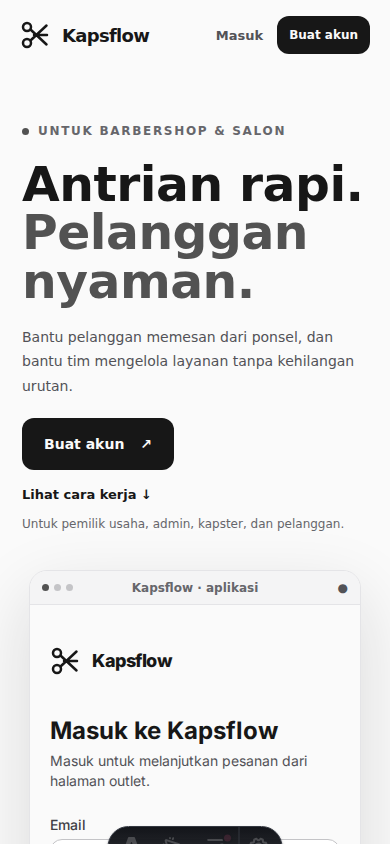
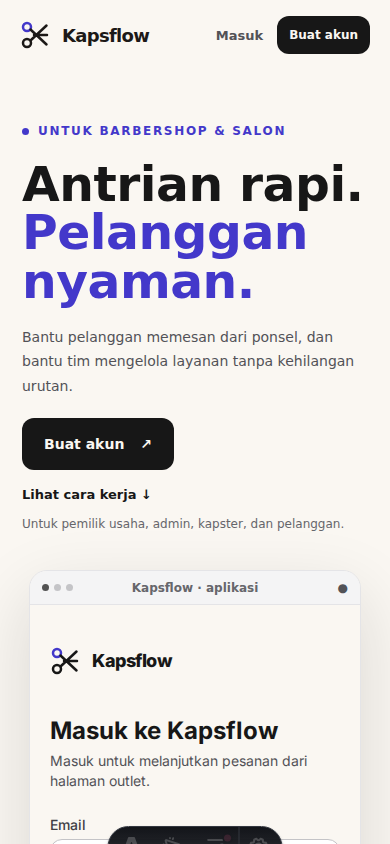
fase UI-6: tambahkan aksen indigo terbatas
Tambahkan token indigo untuk penanda kecil, informasi, dan identitas pada aplikasi serta website.

Pertahankan tombol utama dan warna status, lalu buktikan perubahan dengan Playwright, build, dan lint.

Claude-Session: https://claude.ai/code/session_01HUsY6ZgZyaUUgJZkRwD266

diff --git a/frontend/src/components/ui.tsx b/frontend/src/components/ui.tsx
@@ -152,7 +152,7 @@ export function Alert({ tone = 'error', children }: { tone?: AlertTone; children
   const tones: Record<AlertTone, string> = {
     error: 'border-red-200 bg-red-50 text-red-800',
     success: 'border-emerald-200 bg-emerald-50 text-emerald-900',
-    info: 'border-line bg-paper-raised text-body',
+    info: 'border border-accent/20 bg-accent-soft text-body',
     warning: 'border-amber-300 bg-amber-50 text-amber-900',
   }
   return (
@@ -184,7 +184,7 @@ export function ConnectionStatus({ connected }: { connected: boolean }) {
   )
 }
 
-export type BadgeTone = 'success' | 'warning' | 'danger' | 'neutral'
+export type BadgeTone = 'success' | 'warning' | 'danger' | 'neutral' | 'accent'
 
 export function Badge({ tone = 'neutral', children }: { tone?: BadgeTone; children: ReactNode }) {
   const tones: Record<BadgeTone, string> = {
@@ -192,6 +192,7 @@ export function Badge({ tone = 'neutral', children }: { tone?: BadgeTone; childr
     warning: 'bg-amber-100 text-amber-950',
     danger: 'bg-red-100 text-red-900',
     neutral: 'bg-paper-raised text-body',
+    accent: 'bg-accent-soft text-accent-ink',
   }
   return <span className={`inline-flex min-h-6 items-center rounded-full px-2.5 py-1 text-xs font-semibold ${tones[tone]}`}>{children}</span>
 }
@@ -219,9 +220,9 @@ export function AuthLayout({ title, subtitle, children }: { title: string; subti
           </div>
           <svg aria-hidden="true" viewBox="0 0 132 280" className="h-56 w-28 xl:h-72 xl:w-32">
             <defs><clipPath id="barber-pole"><rect x="30" y="36" width="72" height="208" rx="30" /></clipPath></defs>
-            <rect x="24" y="30" width="84" height="220" rx="36" fill="#fafafa" />
+            <rect x="24" y="30" width="84" height="220" rx="36" fill="var(--color-paper)" />
             <g clipPath="url(#barber-pole)">
-              <rect x="30" y="36" width="72" height="208" fill="#fafafa" />
+              <rect x="30" y="36" width="72" height="208" fill="var(--color-paper)" />
               <path d="M8 206 122 92M8 258 122 144M8 154 122 40M8 102 74 36" stroke="#737373" strokeWidth="20" />
             </g>
             <path d="M24 52h84M24 228h84" stroke="#737373" strokeWidth="12" strokeLinecap="round" />

diff --git a/frontend/src/pages/Admin.tsx b/frontend/src/pages/Admin.tsx
@@ -3,7 +3,7 @@ import { useParams } from 'react-router'
 import { useMutation, useQueries, useQuery, useQueryClient } from '@tanstack/react-query'
 import { api, ApiError, messageOf } from '../api/client'
 import { useMe } from '../auth/useMe'
-import { Alert, Button, ConfirmDialog, Field, RetryAlert, Spinner } from '../components/ui'
+import { Alert, Badge, Button, ConfirmDialog, Field, RetryAlert, Spinner } from '../components/ui'
 import type { components } from '../api/schema'
 import { formatDateTime, formatLongDate, formatRupiah } from '../lib/format'
 
@@ -517,7 +517,7 @@ function PaymentPanel({ membership, session }: { membership: Membership; session
     <section aria-label="DP menunggu konfirmasi" className="space-y-3">
       <div className="flex items-center justify-between">
         <h2 className="text-lg font-bold">DP menunggu konfirmasi</h2>
-        <span className="rounded-full bg-paper-raised px-3 py-1 text-sm font-semibold">{payments.data.length}</span>
+        <Badge tone="accent">{payments.data.length}</Badge>
       </div>
       {confirm.isError && <Alert>{messageOf(confirm.error)}</Alert>}
       {payments.data.length === 0 ? (
@@ -594,7 +594,7 @@ function SettlementPanel({ membership, session }: { membership: Membership; sess
     <section aria-label="Pelunasan menunggu konfirmasi" className="space-y-3 border-t border-line pt-5">
       <div className="flex items-center justify-between gap-3">
         <h2 className="text-lg font-bold">Konfirmasi pelunasan</h2>
-        <span className="rounded-full bg-paper-raised px-3 py-1 text-sm font-semibold">{tickets.data.length}</span>
+        <Badge tone="accent">{tickets.data.length}</Badge>
       </div>
       {confirm.isError && <Alert>{messageOf(confirm.error)}</Alert>}
       {tickets.data.length === 0 ? (

diff --git a/frontend/src/pages/Outlet.tsx b/frontend/src/pages/Outlet.tsx
@@ -66,7 +66,7 @@ function OutletView({ outlet }: { outlet: OutletData }) {
     <main className="mx-auto min-h-dvh max-w-6xl px-5 pb-12 pt-4 sm:px-8 lg:px-10">
       <header className="mb-8 flex items-center justify-between border-b border-line pb-4">
         <Logo />
-        <Link to="/tiket" className="inline-flex min-h-11 items-center px-2 text-sm font-semibold underline focus-visible:outline-2 focus-visible:outline-brand-ink">
+        <Link to="/tiket" className="inline-flex min-h-11 items-center px-2 text-sm font-semibold text-accent-ink underline focus-visible:outline-2 focus-visible:outline-brand-ink">
           Tiket saya
         </Link>
       </header>
@@ -183,7 +183,7 @@ function BookingSection({ outlet }: { outlet: OutletData }) {
                     : 'border-line bg-paper-raised text-muted cursor-not-allowed'
               }`}
               >
-                <span className="block text-xs">{d.date === outlet.local_today ? 'Hari ini' : weekdayShort(d.date)}</span>
+                <span className={`block text-xs ${d.date === outlet.local_today && !isSelected ? 'text-accent' : ''}`}>{d.date === outlet.local_today ? 'Hari ini' : weekdayShort(d.date)}</span>
                 <span className="block text-xl font-bold tabular-nums">{dayOfMonth(d.date)}</span>
                 <span className="block text-xs">{formatMonthYear(d.date)}</span>
                 <span className="block text-xs">{note}</span>

diff --git a/frontend/src/pages/Kapster.tsx b/frontend/src/pages/Kapster.tsx
@@ -2,7 +2,7 @@ import { useEffect, useState } from 'react'
 import { useMutation, useQuery, useQueryClient } from '@tanstack/react-query'
 import { api, ApiError, messageOf } from '../api/client'
 import { useMe } from '../auth/useMe'
-import { Alert, Button, ConfirmDialog, ConnectionStatus, RetryAlert, Spinner } from '../components/ui'
+import { Alert, Badge, Button, ConfirmDialog, ConnectionStatus, RetryAlert, Spinner } from '../components/ui'
 import type { components } from '../api/schema'
 import { formatLongDate } from '../lib/format'
 import { useQueueStream } from '../hooks/useQueueStream'
@@ -308,7 +308,7 @@ function QueuePanel({ membership, session, onStreamConnectionChange }: {
       <section aria-label="Antrian menunggu" className="rounded-3xl border border-line bg-white p-5">
         <div className="flex items-baseline justify-between">
           <h2 className="text-lg font-bold">Menunggu</h2>
-          <span className="text-sm text-muted">{waiting.length} pelanggan</span>
+          <span className="inline-flex items-center gap-2 text-sm text-muted"><Badge tone="accent">{waiting.length}</Badge> pelanggan</span>
         </div>
         {waiting.length === 0 ? (
           <p className="mt-3 text-sm text-body-muted">Belum ada pelanggan yang menunggu.</p>

diff --git a/frontend/src/pages/Tiket.tsx b/frontend/src/pages/Tiket.tsx
@@ -114,12 +114,12 @@ function StatusStepper({ status }: { status: string }) {
   return (
     <ol aria-label="Tahapan tiket" className="rounded-2xl border border-line bg-white px-4 py-3">
       <li aria-current="step" className="space-y-3">
-        <p data-step-label className="text-sm font-semibold text-ink">
+        <p data-step-label className={`text-sm font-semibold ${status === 'completed' ? 'text-ink' : 'text-accent'}`}>
           Langkah {current + 1} dari {steps.length}: {steps[current][1]}
         </p>
         <div aria-hidden="true" className="flex gap-1.5">
           {steps.map(([key], index) => (
-            <span key={key} className={`h-1.5 flex-1 rounded-full ${index < current ? 'bg-line-strong' : index === current ? 'bg-ink' : 'bg-line'}`} />
+            <span key={key} className={`h-1.5 flex-1 rounded-full ${index < current || (index === current && status === 'completed') ? 'bg-ink' : index === current ? 'bg-accent' : 'bg-line'}`} />
           ))}
         </div>
       </li>

diff --git a/frontend/src/components/Logo.tsx b/frontend/src/components/Logo.tsx
@@ -2,7 +2,7 @@ export function Logo({ compact = false, light = false }: { compact?: boolean; li
   return (
     <span role="img" aria-label="Kapsflow" className={`inline-flex items-center gap-2.5 ${light ? 'text-white' : 'text-ink'}`}>
       <svg aria-hidden="true" viewBox="0 0 32 32" className="size-8 shrink-0" fill="none">
-        <circle cx="7" cy="8" r="4" stroke="currentColor" strokeWidth="2.5" />
+        <circle cx="7" cy="8" r="4" className={light ? '' : 'text-accent'} stroke="currentColor" strokeWidth="2.5" />
         <circle cx="7" cy="24" r="4" stroke="currentColor" strokeWidth="2.5" />
         <path d="m10.5 10.5 16 15M10.5 21.5l16-15M14 16h13" stroke="currentColor" strokeWidth="2.5" strokeLinecap="round" />
       </svg>

diff --git a/frontend/src/index.css b/frontend/src/index.css
@@ -5,7 +5,8 @@
   --color-ink: #171717;
   --color-ink-hover: #303030;
   --color-ink-muted: #525252;
-  --color-paper: #fafafa;
+  --color-ink-brand: #1C1917;
+  --color-paper: #FAF7F2;
   --color-paper-raised: #f4f4f5;
   --color-paper-muted: #e4e4e7;
   --color-line: #e4e4e7;
@@ -16,6 +17,10 @@
   --color-body: #3f3f46;
   --color-brand: #404040;
   --color-brand-ink: #262626;
+  --color-accent: #4338CA;
+  --color-accent-ink: #3730A3;
+  --color-accent-soft: #EEF2FF;
+  --color-accent-on-dark: #A5B4FC;
   --font-sans: "Inter Variable", system-ui, sans-serif;
 }
 

diff --git a/frontend/index.html b/frontend/index.html
@@ -3,7 +3,7 @@
   <head>
     <meta charset="UTF-8" />
     <meta name="viewport" content="width=device-width, initial-scale=1.0" />
-    <meta name="theme-color" content="#fafafa" />
+    <meta name="theme-color" content="#faf7f2" />
     <meta name="description" content="Pesan dan pantau antrian barbershop atau salon dengan Kapsflow." />
     <link rel="manifest" href="/manifest.webmanifest" />
     <link rel="icon" href="/icons/icon.svg" type="image/svg+xml" />

diff --git a/docs/ACCENT-THEME-REPORT.md b/docs/ACCENT-THEME-REPORT.md
@@ -1,0 +1,67 @@
+# Laporan tema monokrom dengan aksen indigo
+
+## Pilihan warna
+
+| Token | Nilai | Penggunaan |
+|---|---|---|
+| `accent` | `#4338CA` | Penanda indigo dan langkah aktif |
+| `accent-ink` | `#3730A3` | Tautan/badge pada latar terang |
+| `accent-soft` | `#EEF2FF` | Latar info dan badge |
+| `accent-on-dark` | `#A5B4FC` | Label kecil pada permukaan gelap |
+| `paper` | `#FAF7F2` | Latar aplikasi, website, dan `theme-color` |
+| `ink-brand` | `#1C1917` | Tinta glyph brand dan latar CTA penutup website |
+
+`ink-brand` ditambahkan sebagai token netral tambahan agar penggunaan #1C1917 mengikuti token dan lulus pemeriksaan identitas. Tombol utama tetap `bg-ink`. Warna hijau, amber, dan merah untuk status tidak diubah.
+
+## Bukti sebelum perubahan
+
+Perintah: `node scripts/verify/check-accent.mjs --capture-before`.
+
+```text
+FAIL Token --color-accent tersedia
+PASS Tombol utama tetap memakai bg-ink
+PASS Website tidak memakai amber lama
+PASS Kontras aksen pada paper minimal 4,5:1 — 7.40:1
+PASS Kontras aksen-on-dark pada ink minimal 4,5:1 — 8.77:1
+FAIL Langkah tiket in_progress memakai warna aksen — teks rgb(23, 23, 23); bar rgb(23, 23, 23)
+FAIL Langkah tiket in_progress memakai warna aksen — teks rgb(23, 23, 23); bar rgb(23, 23, 23)
+3 pemeriksaan gagal: token belum ada dan warna langkah in_progress tidak sesuai pada dua ukuran layar.
+```
+
+Screenshot before disimpan untuk `/`, `/o/contoh-barber`, `/tiket/:id` berstatus `in_progress`, dan halaman admin (`/kelola/...`) di 390×844 serta 1440×900.
+
+## Hasil sesudah perubahan
+
+`node scripts/verify/check-accent.mjs` lulus semua pemeriksaan. Kontras terukur tetap 7.40:1 untuk `#4338CA` di atas paper dan 8.77:1 untuk `#A5B4FC` di atas `#1C1917`. Pada tiket `in_progress`, teks langkah aktif dan bar aktif terhitung `rgb(67, 56, 202)` pada kedua viewport.
+
+Screenshot after dengan ukuran yang sama:
+
+- Website `/`: `frontend/ui-review/after/after-website-home-{390,1440}.png`
+- Outlet: `frontend/ui-review/after/after-app-outlet-contoh-barber-{390,1440}.png`
+- Tiket `in_progress`: `frontend/ui-review/after/after-app-tiket-in-progress-{390,1440}.png`
+- Admin: `frontend/ui-review/after/after-app-admin-kelola-{390,1440}.png`
+
+Skrip regresi yang dijalankan: `check-identity`, `check-a11y`, `check-content`, `check-responsive`, `check-booking`, `check-invalid-date`, `check-ticket`, `check-admin`, `check-staff`, dan `inventory`. Semuanya lulus setelah dua ekspektasi tes disesuaikan: theme-color website mengikuti paper baru, dan status `completed` mempertahankan seluruh bar sebagai ink.
+
+Build dan lint:
+
+| Perintah | Hasil |
+|---|---|
+| `cd frontend && npm run build` | PASS — TypeScript dan Vite |
+| `cd frontend && npm run lint` | PASS — oxlint tanpa temuan |
+| `cd website && npm run build` | PASS — 3 halaman statis |
+
+## File yang berubah
+
+- `frontend/src/index.css`, `frontend/index.html`, `frontend/AGENTS.md`
+- `frontend/src/components/ui.tsx`, `frontend/src/components/Logo.tsx`
+- `frontend/src/pages/Outlet.tsx`, `Tiket.tsx`, `Admin.tsx`, `Kapster.tsx`
+- `website/src/pages/index.astro`, `website/src/layouts/LegalLayout.astro`
+- `scripts/verify/check-accent.mjs`, serta penyesuaian tes `check-identity.mjs` dan `check-ticket.mjs`
+- `docs/ROADMAP.md` dan laporan ini
+
+## Belum diverifikasi
+
+- Screenshot dan interaksi dijalankan di Chromium desktop dengan fixture API tiruan. Tampilan di perangkat fisik, browser lain, dan skema warna paksa sistem operasi belum diuji.
+- Perubahan ini tidak menguji alur API/database; tidak ada backend atau kontrak API yang diubah.
+- Warna merah/hijau/amber yang ada untuk status dan peringatan tetap utuh; cakupan visual regressi untuk seluruh layar di luar halaman yang disebutkan tidak dijalankan.

diff --git a/frontend/AGENTS.md b/frontend/AGENTS.md
@@ -62,11 +62,12 @@ tiket pelanggan tetap berada di jalur pemuatan utama. Rute berlogin meliputi `/`
 
 ## Desain
 
-Mobile first (pelanggan dan staf memakai HP). Tema utama monokrom memakai token semantik di
-`src/index.css` (`ink`, `paper`, `line`, `body`); jangan menambahkan warna `stone-*` langsung di
-halaman. Hijau dipakai untuk "giliran Anda" dan indikator langsung, amber untuk peringatan dan
-penilaian. Sudut membulat besar (`rounded-3xl` kartu, `rounded-xl` tombol dan input). Fokus keyboard
-harus terlihat. Gerak hanya sebagai jawaban atas aksi pengguna.
+Mobile first (pelanggan dan staf memakai HP). Tema utama monokrom dengan satu aksen indigo
+(`accent`, `accent-ink`, `accent-soft`, `accent-on-dark`). Aksen dipakai untuk penanda kecil dan
+identitas, tidak pernah untuk status atau peringatan. Tombol utama tetap `ink`. Jangan menambahkan
+warna `stone-*` langsung di halaman. Hijau dipakai untuk "giliran Anda" dan indikator langsung,
+amber untuk peringatan dan penilaian. Sudut membulat besar (`rounded-3xl` kartu, `rounded-xl` tombol
+dan input). Fokus keyboard harus terlihat. Gerak hanya sebagai jawaban atas aksi pengguna.
 
 Teks antarmuka: bahasa Indonesia sederhana, kalimat aktif, tombol berisi kata kerja ("Pesan dan
 bayar DP", bukan "Kirim"). Pesan error menjelaskan apa yang salah dan apa yang bisa dilakukan, tanpa

diff --git a/docs/ROADMAP.md b/docs/ROADMAP.md
@@ -57,6 +57,7 @@ Perbarui file ini di setiap commit fase. Satu baris per fase.
 | 15-3 | Caddy otomatis HTTPS untuk frontend dan API satu origin serta website profil di domain terpisah |
 | 15-4 | CI GitHub Actions memeriksa Go, frontend, website, konfigurasi Compose, Caddyfile, dan build image |
 | 15-5 | Container migrator menjalankan Goose dan menyetel password role runtime sebelum API dimulai; API tidak mendapat DATABASE_URL |
+| UI-6 | Tema monokrom memakai satu aksen indigo terbatas untuk penanda, informasi, dan identitas; tombol utama dan status tetap memakai warna semantiknya |
 
 ## Berikutnya (urutan wajib)
 
